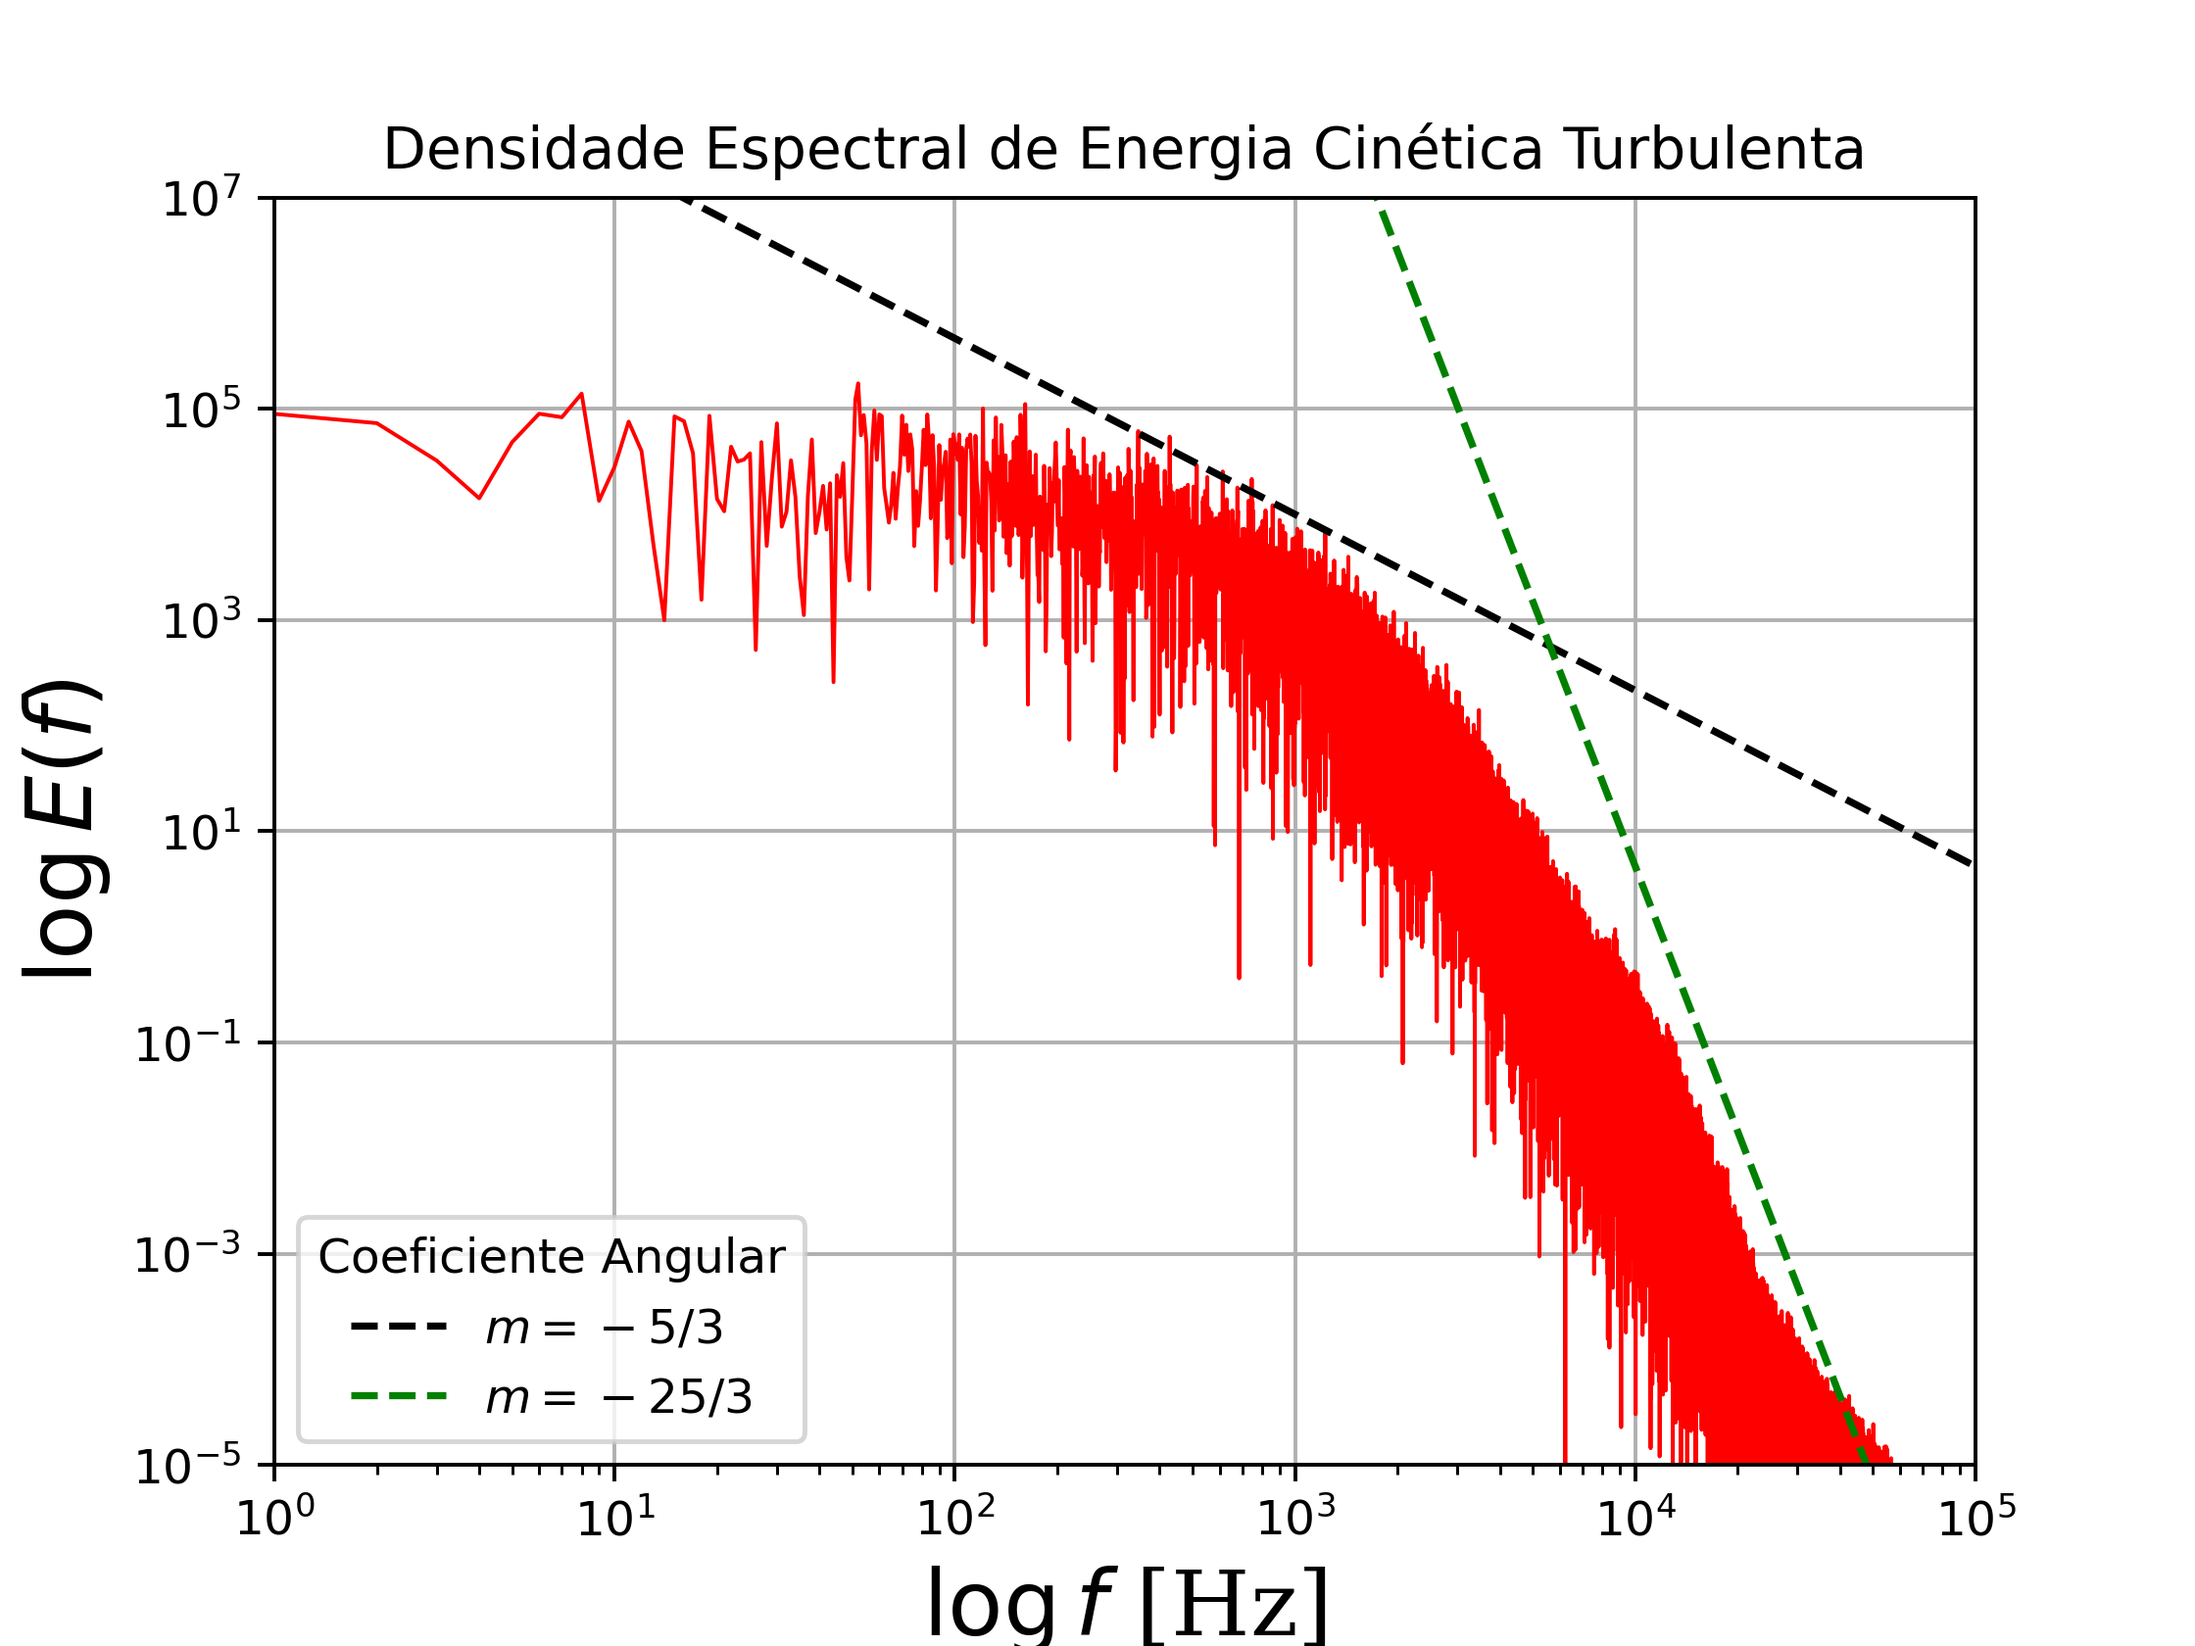
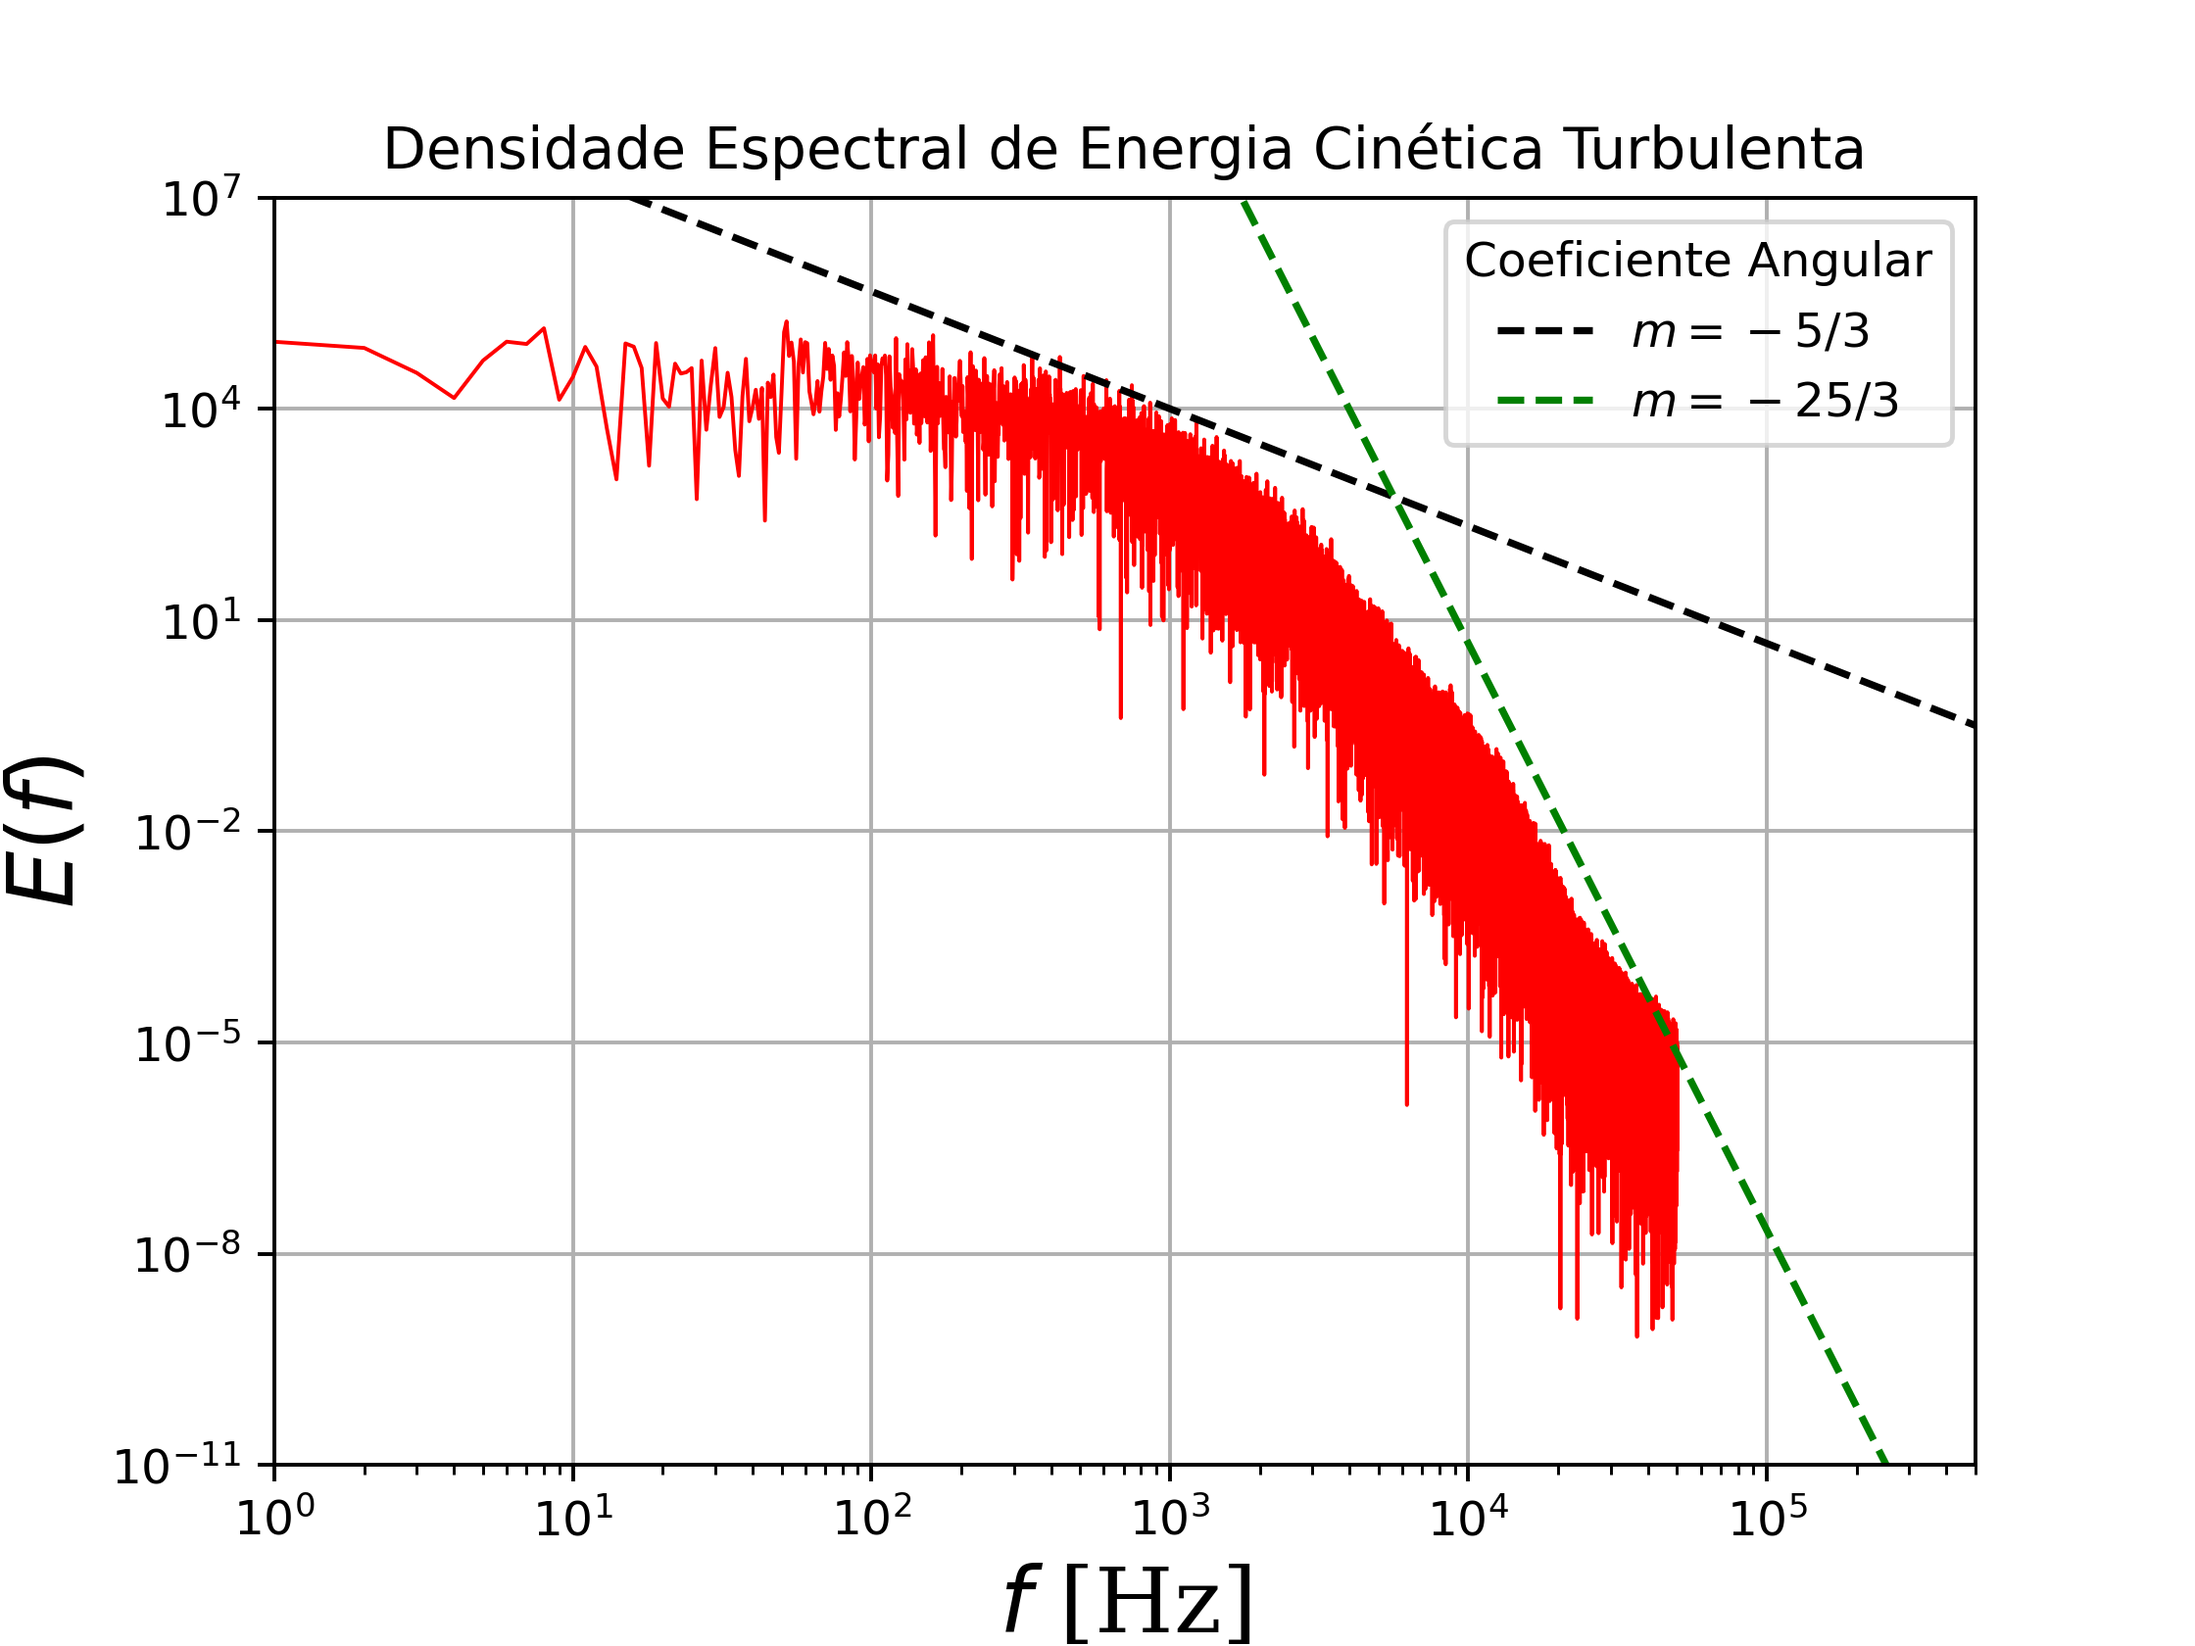
espectros

diff --git a/statistica_probes.py b/statistica_probes.py
@@ -1,7 +1,10 @@
+from cProfile import label
 import matplotlib.pylab as plt
 from matplotlib.font_manager import FontProperties
 import numpy as np
 from numpy import fft
+from scipy.optimize import curve_fit
+from scipy.special import expit
 import pandas as pd
 import statistical_module as sm
 
@@ -34,10 +37,10 @@ def plot_mean_vel(x, vel, dt, rho, dataframe, exp_w_mean):
     x_paraview = dataframe.x_comp * (1.0 /0.15)
     y_paraview = dataframe.w_average
 
-    rho_paraview = dataframe.density_average
-    w_paraview = []
-    for i in range(29):
-        w_paraview.append(np.sum((y_paraview[i] * rho_paraview[i])) / np.sum(rho_paraview[i])) # média de ponderada pelo dt.
+    #rho_paraview = dataframe.density_average
+    #w_paraview = []
+    #for i in range(29):
+    #    w_paraview.append(np.sum((y_paraview[i] * rho_paraview[i])) / np.sum(rho_paraview[i])) # média de ponderada pelo dt.
 
     x_exp = exp_w_mean.x1_exp
     y_exp = exp_w_mean.mean_w_exp
@@ -46,9 +49,9 @@ def plot_mean_vel(x, vel, dt, rho, dataframe, exp_w_mean):
 
     plt.style.use('ggplot')
         
-    fig = plt.figure(figsize=(10.0, 4.0))
+    fig = plt.figure(dpi=350)
     axes1 = fig.add_subplot(1, 1, 1)
-    axes1.set_ylabel('mean_dpm_w')
+    axes1.set_ylabel('mean_w')
     axes1.set_xlabel('x / L')
         
     x0 = np.array(x)                                # adimensionalizando a coordenada x
@@ -78,13 +81,35 @@ def plot_mean_vel(x, vel, dt, rho, dataframe, exp_w_mean):
     print("favre_num é = ", favre_num)
     print("favre_den é = ", favre_den)
     
-    plt.plot(x2, y3, '-', label="Smag Cs = 0.15")
-    #plt.plot(x2, y3 , 'o', label="Smag Cs = 0.15 (com favre)")
-    #plt.plot(x_paraview, w_paraview, '--', label="Smag Cs = 0.15 (paraview)")
+    plt.plot(x2, y3, '-', label="Smagorinsky, Cs = 0.15")
+    #plt.plot(x2, y3 , 'o', label="Smagorinsky, Cs = 0.15 (com favre)")
+    #plt.plot(x_paraview, w_paraview, '--', label="Smagorinsky, Cs = 0.15 (paraview)")
     plt.plot(x_exp, y_exp, '*', color="green", label="Experimental")
     plt.legend(loc='best')
     fig.tight_layout()
     plt.show()
+
+    #x_exp1 = np.log(x_exp)
+    #y_exp1 = np.log(y_exp)
+#
+    #x21 = np.log(x2[2:])
+    #y31 = np.log(y3[2:])
+
+    a, b = sm.least_square(x_exp, y_exp, 3)
+    y3 =  y3[2:-1] * 1.0 / np.max(y_exp)
+    a1, b1 = sm.least_square(x2[2:-1], y3, 3)
+
+    y_exp = a * x_exp + b
+    y3 = a1 * x2 + b1
+    print("a = ", a)
+    print("b = ", b)
+
+    print("a1 = ", a1)
+    print("b1 = ", b1)
+    plt.plot(x_exp, y_exp, 'o', label="Experimental")
+    plt.plot(x2, y3, '-', label="MFSim")
+    plt.show()
+    return x2, y3, x_exp, y_exp
 
 def plot_std_ke(x, u, v, w, dt, rho, dataframe, exp_ke_std):
     """
@@ -126,9 +151,9 @@ def plot_std_ke(x, u, v, w, dt, rho, dataframe, exp_ke_std):
 
     plt.style.use('ggplot')
         
-    fig = plt.figure(figsize=(10.0, 4.0))
+    fig = plt.figure(dpi=350)
     axes1 = fig.add_subplot(1, 1, 1)
-    axes1.set_ylabel('std_ke')
+    axes1.set_ylabel('ke')
     axes1.set_xlabel('x / L')
         
     x0 = np.array(x)                                # adimensionalizando a coordenada x
@@ -152,15 +177,18 @@ def plot_std_ke(x, u, v, w, dt, rho, dataframe, exp_ke_std):
     print("y3 é = ", y3)
 
     
-    plt.plot(x2, y1 , '-', label="Smag Cs = 0.15")
-    #plt.plot(x2, y3 , 'o', label="Smag Cs = 0.15 (com favre)")
-    #plt.plot(x_parav, y_parav, '--', label="Smag Cs = 0.15 (paraview)")
+    plt.plot(x2, y1 , '-', label="Smagorinsky, Cs = 0.15")
+    #plt.plot(x2, y3 , 'o', label="Smagorinsky, Cs = 0.15 (com favre)")
+    #plt.plot(x_parav, y_parav, '--', label="Smagorinsky, Cs = 0.15 (paraview)")
     plt.plot(x_exp, y_exp, '*', color="green", label="Experimental")
     plt.legend(loc='best')
     fig.tight_layout()
     plt.show()
-    return y1
+    return x2, y1, x_exp, y_exp
 
+def sigmoid(x, Beta_1, Beta_2):
+     y = 1 / (1 + np.exp(-Beta_1*(x-Beta_2)))
+     return y
 
 def plot_std_vel(x, vel, dt, rho, dataframe, exp_std_vel, vel_i):
     """
@@ -208,7 +236,7 @@ def plot_std_vel(x, vel, dt, rho, dataframe, exp_std_vel, vel_i):
 
         plt.style.use('ggplot')
 
-        fig = plt.figure(figsize=(10.0, 4.0))
+        fig = plt.figure(dpi=350)
         axes1 = fig.add_subplot(1, 1, 1)
         axes1.set_ylabel('std_u')
         axes1.set_xlabel('x / L')
@@ -225,9 +253,9 @@ def plot_std_vel(x, vel, dt, rho, dataframe, exp_std_vel, vel_i):
 
         print("x2 = ", x2)
 
-        plt.plot(x2, y1 , '-', label="Smag Cs = 0.15")
-        #plt.plot(x2, y3 , 'o', label="Smag Cs = 0.15 (com favre)")
-        #plt.plot(x_paraview, y_paraview, '--', label="Smag Cs = 0.15 (paraview)")
+        plt.plot(x2, y1 , '-', label="Smagorinsky, Cs = 0.15")
+        #plt.plot(x2, y3 , 'o', label="Smagorinsky, Cs = 0.15 (com favre)")
+        #plt.plot(x_paraview, y_paraview, '--', label="Smagorinsky, Cs = 0.15 (paraview)")
         plt.plot(x_exp, y_exp, '*', color="green", label="Experimental")
         plt.legend(loc='best')
         fig.tight_layout()
@@ -263,7 +291,7 @@ def plot_std_vel(x, vel, dt, rho, dataframe, exp_std_vel, vel_i):
 
         plt.style.use('ggplot')
 
-        fig = plt.figure(figsize=(10.0, 4.0))
+        fig = plt.figure(dpi=350)
         axes1 = fig.add_subplot(1, 1, 1)
         axes1.set_ylabel('std_w')
         axes1.set_xlabel('x / L')
@@ -279,14 +307,20 @@ def plot_std_vel(x, vel, dt, rho, dataframe, exp_std_vel, vel_i):
             x2[i] = np.mean(x1[i])
 
         print("x2 = ", x2)
+        
+        #popt, pcov = curve_fit(sigmoid, x_exp, y_exp)
 
-        plt.plot(x2, y1 , '-', label="Smag Cs = 0.15")
-        #plt.plot(x2, y3 , 'o', label="Smag Cs = 0.15 (com favre)")
-        #plt.plot(x_paraview, y_paraview, '--', label="Smag Cs = 0.15 (paraview)")
+
+        plt.plot(x2, y1 , '-', label="Smagorinsky, Cs = 0.15")
+        #plt.plot(x2, y3 , 'o', label="Smagorinsky, Cs = 0.15 (com favre)")
+        #plt.plot(x_paraview, y_paraview, '--', label="Smagorinsky, Cs = 0.15 (paraview)")
         plt.plot(x_exp, y_exp, '*', color="green", label="Experimental")
+        #y_fit = sigmoid(x_exp, *popt)
+        #plt.plot(x_exp,y_fit, linewidth=3.0, label='fit')
         plt.legend(loc='best')
         fig.tight_layout()
         plt.show()
+        return x2, y1, x_exp, y_exp
 
     
 
@@ -312,17 +346,16 @@ def espectro(t,xc,u,v,w):
     wl = w - np.mean(w)    # Calcula a flutuação da velocidade w  
 
     Enel = (ul * ul + vl * vl + wl * wl) / 2  
-
+    print(" Enel antes= ", Enel)
     contUl = 0
-    for i in u:
+    for i in ul:
         if contUl<45:
             Enel[contUl] = Enel[contUl]*np.sin(contUl*2*np.pi/180)
         if (contUl>(len(xc)-46)):
             Enel[contUl] = Enel[contUl]*np.sin((2*(45 + contUl - (len(xc)-46)))*np.pi/180)
         contUl = contUl + 1
-
     print(" contUl = ", contUl)
-
+    print(" Enel depois= ", Enel)
     yl = Enel
     nl = len(yl)
     kl = np.arange(nl)
@@ -347,10 +380,13 @@ def plot_spectral_density():
     font.set_family('serif')
 
     x1R = 1
-    x2R = 100000
+    x2R = 1000000
     xR = np.arange(x1R,x2R,10)
-    yR = np.exp((-5.0/3.0)*np.log(xR))*1000000000
-    yRl = np.exp((-25.0/3.0)*np.log(xR))* (10 ** 34)
+    #yR = (-5.0/3.0) * xR
+    #yRl = (-25.0/3.0) * xR
+    yR = 10 ** ((-5.0/3.0)*np.log10(xR))*1000000000
+    yRl = 10 ** ((-25.0/3.0)*np.log10(xR))* (10 ** 34)
+    #yRl = 10 ** ((-25.0/3.0)*np.log10(xR))* (10 ** 34)
 
     dir = [""]
     probe = ["surf00001_sonda00017.dat"]    # Escolha da probe
@@ -390,21 +426,31 @@ def plot_spectral_density():
 
     plt.figure()
     print(len(ept_kinetic))
+    #frec = np.log10(ept_kinetic[i][1])
+    #E_d = np.log10(abs(ept_kinetic[i][0]))
+    frec = ept_kinetic[i][1]
+    E_d = abs(ept_kinetic[i][0])
+    print("frec = ", frec)
+    print("E_d = ", E_d)
+    print("len frec = ", len(frec))
 
     for i in range(len(ept_kinetic)):
 
-        plt.xlabel('$\log{f}$ [Hz]', fontsize=19, fontproperties=font)
-        plt.ylabel('$\log{E(f)}$', fontsize=19, fontproperties=font)
-        plt.loglog(ept_kinetic[i][1],abs(ept_kinetic[i][0]),color='red',linewidth=0.8)
+        plt.xlabel('${f}$ [Hz]', fontsize=19, fontproperties=font)
+        plt.ylabel('${E(f)}$', fontsize=19, fontproperties=font)
+        plt.loglog(frec[0:50000], E_d[0:50000], color='red',linewidth=0.8)
         plt.loglog(xR,yR,'--',color='black',linewidth=1.5, label='$m = -5/3$')
         plt.loglog(xR,yRl,'--',color='green',linewidth=1.5, label='$m = -25/3$')
-
-
+        #plt.loglog(frec[50000],E_d,'--',color='blue',linewidth=1.5, label='$m = -25/3$')
+#
     ax= plt.gca()	
-    ax.set_xlim([1,100000])
-    ax.set_ylim([0.00001,10000000])	
+    #ax.set_xlim([1,10000000])
+    #ax.set_ylim([0.00000000001,10000000])	
+    ax.set_xlim([1,500000])
+    ax.set_ylim([0.00000000001,10000000])
     ax.legend(title='Coeficiente Angular')
     plt.title('Densidade Espectral de Energia Cinética Turbulenta')	
     plt.grid()
     plt.savefig('Espectro_final.png', format='png', dpi=350)
     plt.show()
+    return ept_kinetic[i][1], abs(ept_kinetic[i][0])

diff --git a/plot_statistical_values.py b/plot_statistical_values.py
@@ -1,3 +1,4 @@
+from cProfile import label
 import glob
 from matplotlib import pyplot as plt
 import numpy as np
@@ -64,6 +65,7 @@ t = []                                          # lista para o tempo
 delta_t = []                                    # lista para o passo de tempo
 rho = []                                        # lista para a densidade
 
+
 sp.plot_spectral_density()
 
 for filename in filenames:
@@ -78,14 +80,19 @@ for filename in filenames:
     v.append(data[cut:, vj])
     w.append(data[cut:, wj])
     dpm_w.append(data[cut:, dpm_wj])
-    #rho.append(data[cut:, rho10])
+    rho.append(data[cut:, rho10])
 
 
 
-sp.plot_mean_vel(x, dpm_w, delta_t, 0, 0, dataframe6)
-#sp.plot_std_vel(x, w, delta_t, rho, dataframe3, exp_w_std, 'w')
-#sp.plot_std_vel(x, u, delta_t, rho, dataframe3, exp_u_std, 'u')
-#sp.plot_std_ke(x, u, v, w, delta_t, rho, dataframe3, exp_ke_std)
+
+#x2, y3, x_exp, y_exp = sp.plot_std_vel(x, w, delta_t, rho, dataframe3, exp_w_std, 'w')
+
+
+
+sp.plot_mean_vel(x, w, delta_t, 0, dataframe3, exp_w_mean)
+sp.plot_std_vel(x, w, delta_t, rho, dataframe3, exp_w_std, 'w')
+sp.plot_std_vel(x, u, delta_t, rho, dataframe3, exp_u_std, 'u')
+sp.plot_std_ke(x, u, v, w, delta_t, rho, dataframe3, exp_ke_std)
 #sp.plot_ln_ke(x, u, v, w, dataframe, exp_ke_std)
 #ke = sp.plot_std_ke(x, u, v, w, dataframe3, exp_ke_std)
 #sp.fft_ke(t, ke)

diff --git a/statistical_module.py b/statistical_module.py
@@ -188,8 +188,24 @@ def mean_squared_error(y, n):
     Retorna a soma do erro quadrático médio.
     """
     mean_squared_error1 = (y - mean(y, n)) ** 2
-    mean_squared_error1 = np.sum(mean_squared_error1)
+    mean_squared_error1 = np.sum(mean_squared_error1) / len(y)
     return np.round(mean_squared_error1, n)
+
+def root_mean_squared_error(y, n):
+    """
+    Calcula a raiz quadrada do erro quadrático médio.
+
+    INPUT:
+
+    - y = o vetor/lista y;
+    - n = o número de casas decimais.
+
+    OUTPUT:
+
+    Retorna a raiz quadrada do erro quadrático médio.
+    """
+    y = np.sqrt(mean_squared_error(y, n))
+    return np.round(y, n)
 
 def erro_regressao(y, y1, n):
     """
@@ -207,3 +223,22 @@ def erro_regressao(y, y1, n):
     """
     erro = squared_error(y, y1, n) / mean_squared_error(y, n)
     return np.round(erro, n)
+
+def relative_error(y1, y2, n):
+    """
+    Calcula o erro relativo.
+
+    INPUT:
+
+    - y1 = o vetor/lista y1 computacional;
+    - y2 = o vetor/lista y1 experimental;
+    - n = o número de casas decimais.
+
+    OUTPUT:
+
+    Retorna o erro relativo em porcentagem.
+    """
+
+    er = np.abs(y1 - y2) / y2
+
+    return np.round(er, n)

diff --git a/espectro_cinetica_sonda12.py b/espectro_cinetica_sonda12.py
@@ -136,7 +136,7 @@ for i in range(len(ept_kinetic)):
 ax= plt.gca()
 #ax.set_xlim([1,10000])
 #ax.set_ylim([0.1,10000000])	
-ax.set_xlim([1,100000])
+ax.set_xlim([1,10000])
 ax.set_ylim([0.00001,10000000])	
 ax.legend(title='Coeficiente Angular')
 plt.title('Densidade Espectral de Energia Cinética Turbulenta')	
